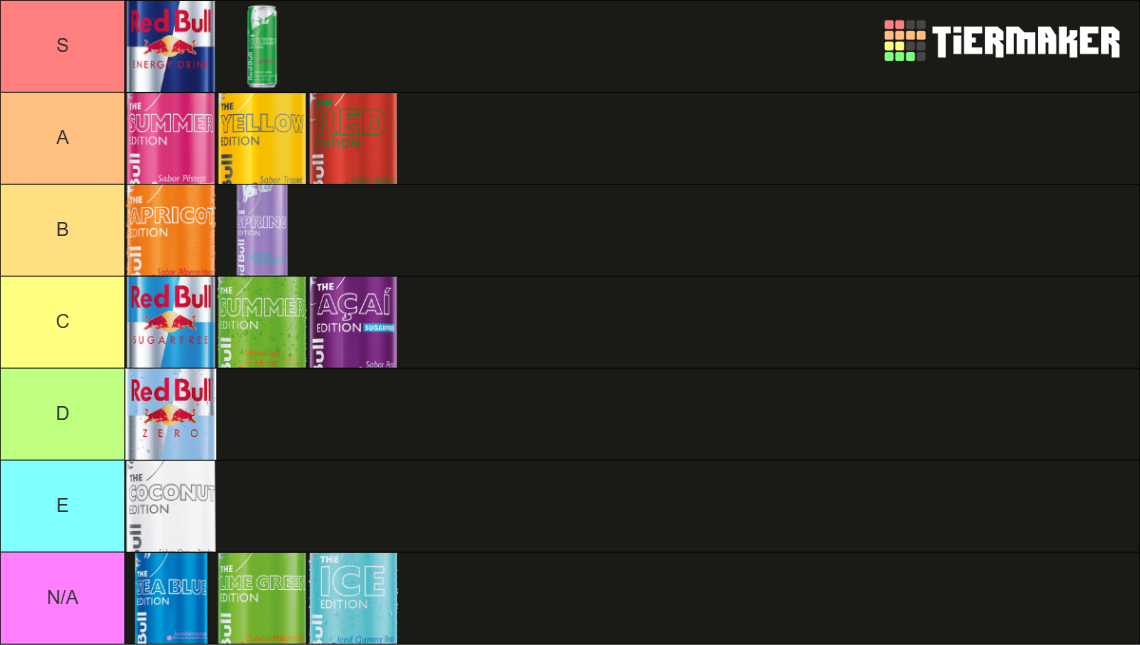
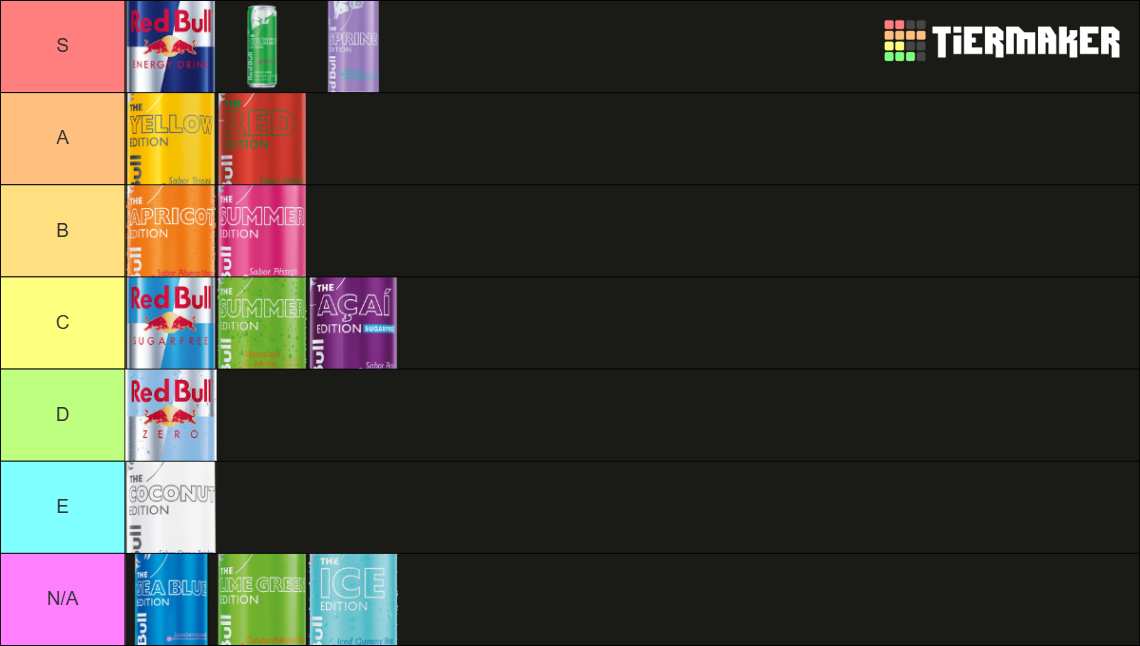
Update

diff --git a/Red Bull.md b/Red Bull.md
@@ -3,12 +3,12 @@
 | Red Bull|Default|✅|✅|<img src="src/assets/RebBull.jpg" alt="Original" width="25" height="25" />|S|Portugal & Espanha|
 | Red Bull 355 ml|Default|✅|✅|<img src="src/assets/RebBull.jpg" alt="355" width="25" height="25" />|S|Portugal & Espanha|
 | Red Bull 473 ml|Default|✅|✅|<img src="src/assets/RebBull.jpg" alt="473" width="25" height="25" />|S|Portugal & Espanha|
+| Red Bull Spring/Lilac |Toranja|✅|✅| <img src="src/assets/Spring.png" alt="Pêssego" width="25" height="25" />|S|Espanha|
 | Red Bull Green|Dragon Fruit|✅|✅|<img src="src/assets/Green.png" alt="Green" width="25" height="25" />|S|Espanha|
 | Red Bull Red |Melância|✅|✅| <img src="src/assets/red.png" alt="Red" width="25" height="25" />|A|Portugal & Espanha|
 | Red Bull Yellow |Frutos Tropicais|✅|✅| <img src="src/assets/Yellow.png" alt="Tropical" width="25" height="25" />|A|Portugal|
-| Red Bull Summer |Pêssego Branco|✅|✅| <img src="src/assets/Summer_Pessego.png" alt="Pêssego" width="25" height="25" />|A|Portugal & Espanha|
-| Red Bull Orange |Alperce-Morango |✅|✅| <img src="src/assets/Orange.png" alt="Orange" width="25" height="25" />|B|Portugal & Espanha|
-| Red Bull Spring/Lilac |Toranja|✅|✅| <img src="src/assets/Spring.png" alt="Pêssego" width="25" height="25" />|B|Espanha|
+| Red Bull Summer |Pêssego Branco|✅|✅| <img src="src/assets/Summer_Pessego.png" alt="Pêssego" width="25" height="25" />|B|Portugal & Espanha|
+| Red Bull Orange |Pêssego|✅|✅| <img src="src/assets/Orange.png" alt="Orange" width="25" height="25" />|B|Portugal & Espanha|
 | Red Bull Summer/Green Lime |Lima e Melão|✅|✅| <img src="src/assets/Summer_Melao.png" alt="Pêssego" width="25" height="25" />|C|Espanha|
 | Red Bull Purple |Açaí|✅|✅|<img src="src/assets/Acai.png" alt="Purple" width="25" height="25" />|C|Portugal|
 | Red Bull Sugar Free|Sem Açucar|✅|❌| <img src="src/assets/Sugar Free.jpg" alt="SF" width="25" height="25" />|C|Portugal & Espanha|

diff --git a/README.md b/README.md
@@ -11,6 +11,8 @@ Projeto pessoal de check de red bull
 | --------- | ------ |
 | SQL | 17 |
 | Python | 3.x |
+| Node.js | 18.x |
+| npm | 9.x |
 
 # Iniciar ou desligar SQL
 ```
@@ -49,9 +51,17 @@ Sistemas-Distribuidos/
 │   start.bat
 ├── .github/workflows/
 ├── api/
+    ├── app/
+    ├── migrations/
+    └──  SQL/
 ├── src/
     ├── assets/
     ├── components/
     ├── router/
-    └── views/
+    ├── styles/
+    ├── views/
+    ├── api.js/
+    ├── index.html/
+    ├── index.jsx/
+    └── vite.config.js/
 ```
